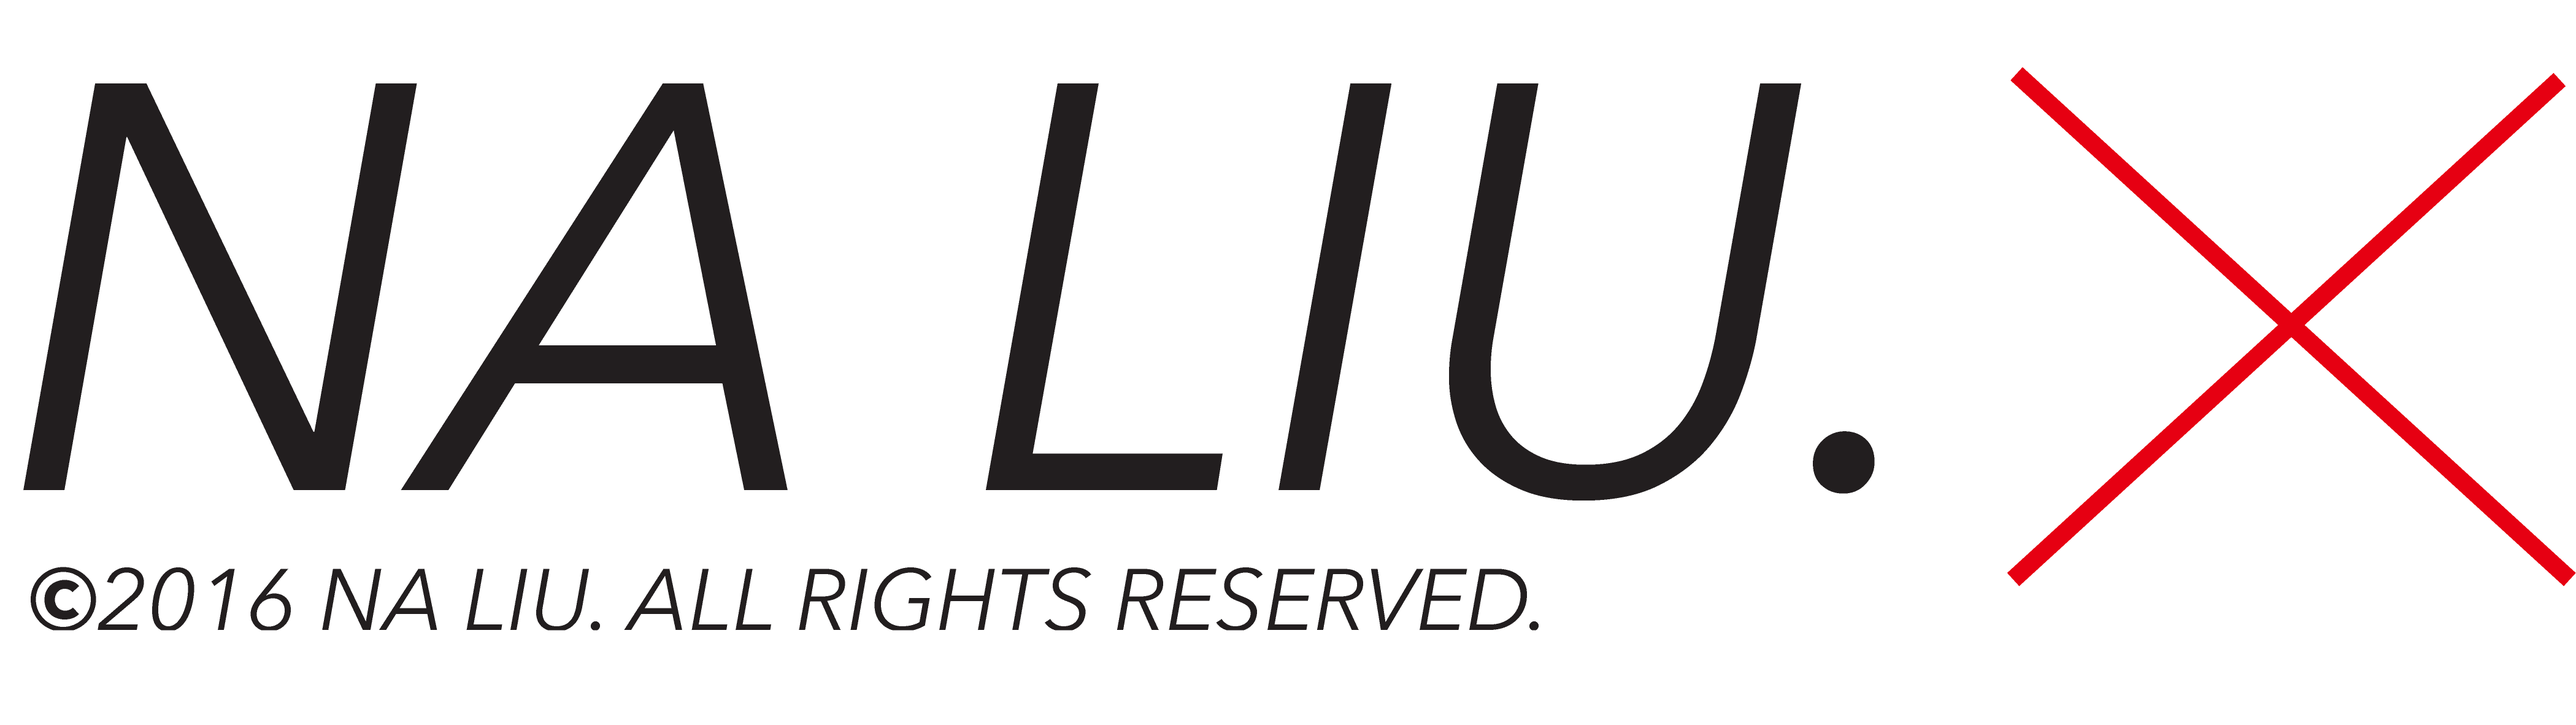
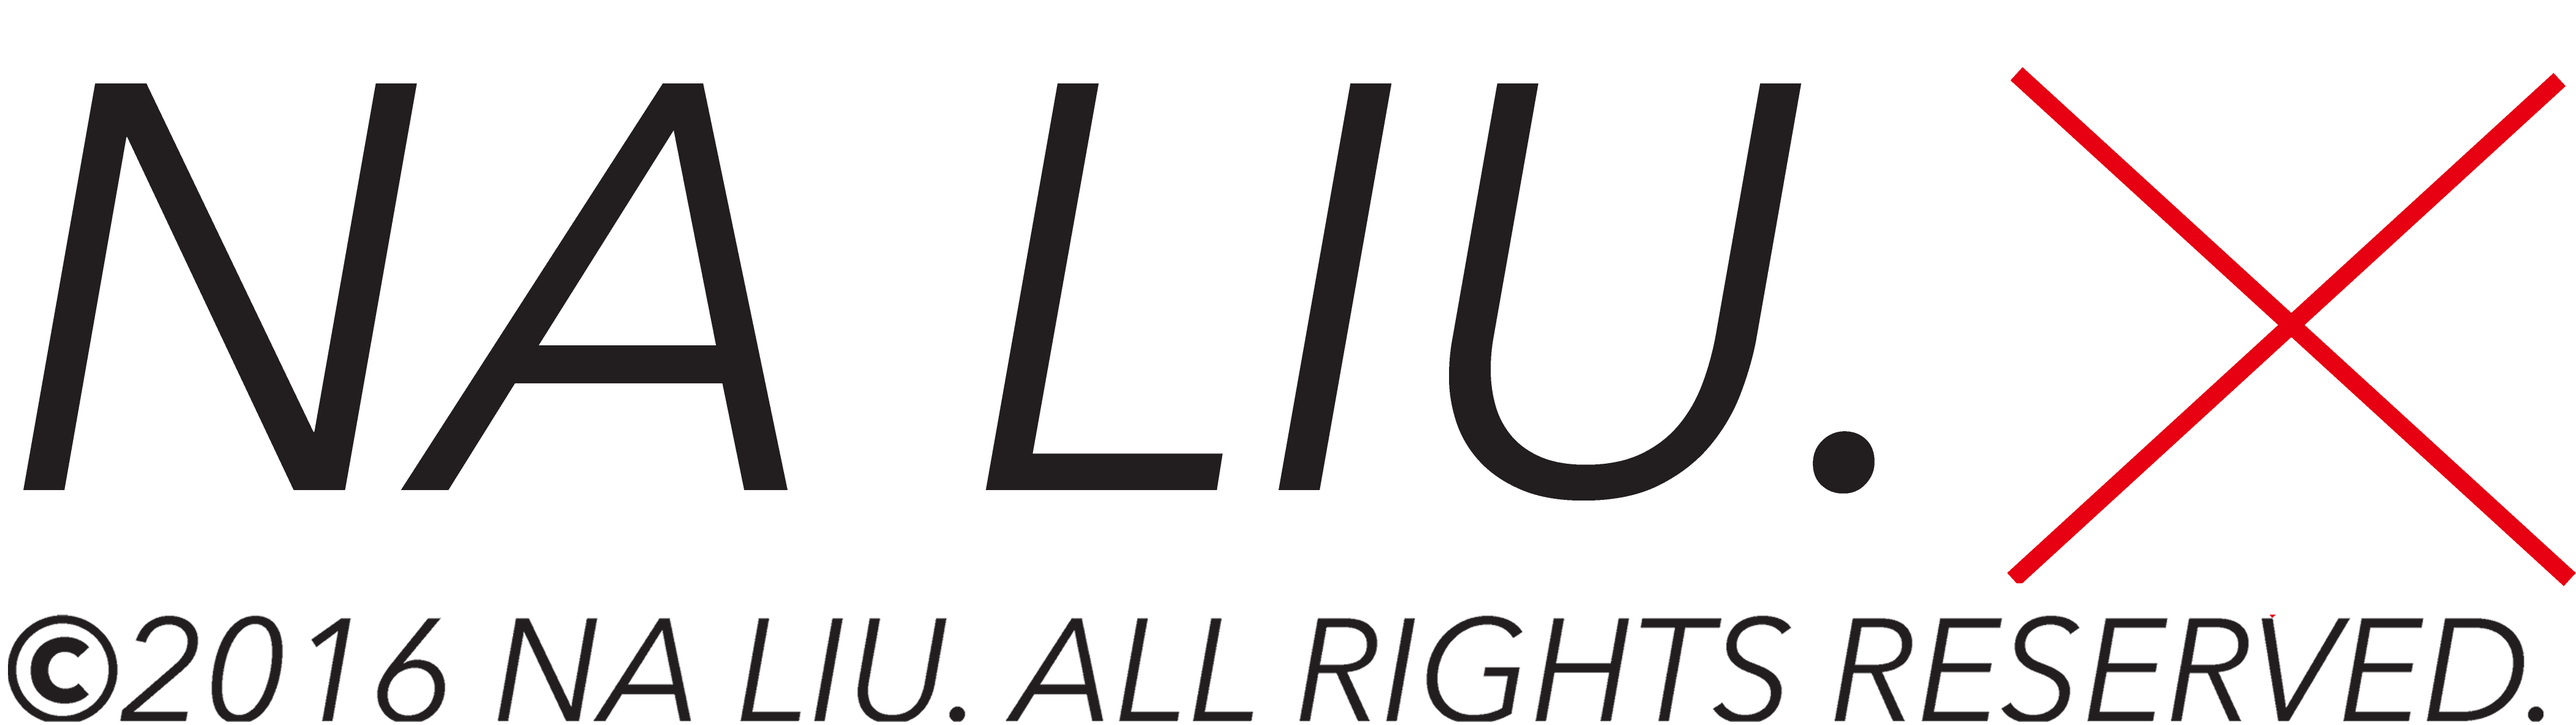
add missing years. slow down index. change password.

Changed region(s): [[0.0, 0.7614, 0.9983, 1.0]]

diff --git a/commercialprojects.html b/commercialprojects.html
@@ -13,15 +13,14 @@
     <link rel="stylesheet" type="text/css" href="css/paintingboard.css" />
     <link rel="stylesheet" type="text/css" href="bower_components/Swiper/dist/css/swiper.min.css" />
     <link rel="stylesheet" type="text/css" href="css/pace.css" />
+    <link rel="stylesheet" type="text/css" href="css/year.css" />
     <script src="javascript/pace.js"></script>
     <script src="bower_components/Swiper/dist/js/swiper.min.js"></script>
     <script src="javascript/onload.js"></script>
     <script type="text/javascript">
         $(window).on('load', function() {
             $(".content").show();
-            // });
-            //     $(document).ready(function() {
-            var delayTime = 300
+            var delayTime = 500
             var mySwiper = new Swiper('.swiper-container', {
                 loop: true,
                 preloadImages: false,
@@ -31,7 +30,7 @@
                     switch (swiper.activeIndex) {
                         case 6:
                         case 1:
-                            $('.animation1').css('left', '7.7%')
+                            $('.animation1').css('left', '15.4%')
                             break;
                         case 5:
                             $('.animation2').css('right', '0')
@@ -64,10 +63,6 @@
                     console.log("slide change end", swiper.activeIndex, swiper.previousIndex)
                 }
             })
-            $('.animation1').css('left', '7.7%')
-            $('.animation1').delay(1000).animate({
-                'left': '0'
-            })
         });
     </script>
     <style media="screen">
@@ -76,20 +71,17 @@
             line-height: 0;
         }
 
-        .wrap img:nth-of-type(1) {
-            width: 37%;
+        .swiper-slide img {
+            width: 100%;
             position: relative;
         }
 
-        .wrap img:nth-of-type(2) {
-            right: 0;
-            height: 100%;
-            position: absolute;
-        }
-
         .swiper-container {
+            position: absolute;
             width: 100%;
             height: 100%;
+            top: 0;
+            right: 0;
         }
     </style>
 </head>
@@ -102,51 +94,33 @@
         <div id="foot">
             <img id='black-foot' src="images/foot.png" style="width:31.352mm;" />
             <img id='white-foot' src="images/foot white.png" style="width:31.352mm;display:none;" /></div>
-        <div class="swiper-container">
-            <div class="swiper-wrapper">
-                <div class="board swiper-slide has-white-foot">
+        <div class="board">
+            <div>
+                <div>
                     <div>
-                        <div>
-                            <div>
-                                <img class="animation1" src="images/commercial/1.jpg" style="position:relative" />
-                            </div>
-                        </div>
-                    </div>
-                </div>
-                <div class="board swiper-slide">
-                    <div>
-                        <div>
-                            <div>
-                                <img src="images/commercial/2.jpg" />
-                            </div>
-                        </div>
-                    </div>
-                </div>
-                <div class="board swiper-slide">
-                    <div>
-                        <div>
-                            <div>
-                                <img src="images/commercial/3.jpg" />
-                            </div>
-                        </div>
-                    </div>
-                </div>
-                <div class="board swiper-slide">
-                    <div>
-                        <div>
-                            <div>
-                                <img src="images/commercial/4.jpg" />
-                            </div>
-                        </div>
-                    </div>
-                </div>
-                <div class="board swiper-slide has-white-foot">
-                    <div>
-                        <div>
-                            <div>
-                                <div class="wrap">
-                                    <img src="images/commercial/separated/7.jpg" />
-                                    <img class="animation2" src="images/commercial/separated/8.jpg" />
+                        <div class="wrap">
+                            <img src="images/white.jpg" style="position:relative;width:100%;opacity:0;" />
+                            <img class="year" src="images/2016.png"/>
+                            <div class="swiper-container">
+                                <div class="swiper-wrapper">
+                                    <div class="swiper-slide has-white-foot">
+                                      <div style="height:100%;width:100%;background:white;">
+                                        <img class="animation1" src="images/commercial/1.jpg" />
+                                      </div>
+                                    </div>
+                                    <div class="swiper-slide">
+                                        <img src="images/commercial/2.jpg" />
+                                    </div>
+                                    <div class="swiper-slide">
+                                        <img src="images/commercial/3.jpg" />
+                                    </div>
+                                    <div class="swiper-slide">
+                                        <img src="images/commercial/4.jpg" />
+                                    </div>
+                                    <div class="swiper-slide has-white-foot">
+                                        <img src="images/commercial/separated/7.jpg" style="position:relative;width:38%;" />
+                                        <img class="animation2" src="images/commercial/separated/8.jpg" style="width:39.7%;right:0;top:0;position:absolute;" />
+                                    </div>
                                 </div>
                             </div>
                         </div>

diff --git a/index.html b/index.html
@@ -67,7 +67,7 @@
         }
 
         function getRandomInterval() {
-            return Math.random() * 1300 + 200
+            return Math.random() * 3000 + 2000
         }
     </script>
     <style>
@@ -94,18 +94,18 @@
                     <div style="line-height:0;position:relative;">
                         <img src="images/homepage/SEPERATED_red/layer2.png" style="position:relative;width:100%;z-index:100;" usemap="#entry-map" />
                         <img src="images/homepage/SEPERATED_red/layer1.png" style="position:absolute;left:0;top:0;width:100%;z-index:50;" />
-                        <img class="entry" src="images/homepage/SEPERATED_red/1.png" style="top:20.6%;left:0;" />
-                        <img class="entry" src="images/homepage/SEPERATED_red/2.png" style="top:81.6%;left:0.05%;" />
-                        <img class="entry notebook" src="images/homepage/SEPERATED_red/3.png" style="left:13.55%;top:41.71%;" />
-                        <img class="entry philosophy" src="images/homepage/SEPERATED_red/4.png" style="left:23.39%;top:71.15%;" />
-                        <img class="entry about" src="images/homepage/SEPERATED_red/5.png" style="left:30.52%;top:12.31%;" />
-                        <img class="entry collage" src="images/homepage/SEPERATED_red/6.png" style="top:54%;left:40.4%;" />
-                        <img class="entry collection" src="images/homepage/SEPERATED_red/7.png" style="top:22.41%;left:53.4%;" />
-                        <img class="entry sketch" src="images/homepage/SEPERATED_red/8.png" style="top:86.4%;left:57.1%;" />
-                        <img class="entry commercial" src="images/homepage/SEPERATED_red/9.png" style="top:45.6%;left:69.85%;" />
-                        <img class="entry contact" src="images/homepage/SEPERATED_red/10.png" style="top:71.15%;left:83.3%;" />
-                        <img class="entry art" src="images/homepage/SEPERATED_red/11.png" style="top:20.8%;left:83.9%;" />
-                        <img class="entry" src="images/homepage/SEPERATED_red/12.png" style="top:54.02%;left:100.25%;" />
+                        <img class="entry" src="images/homepage/SEPERATED_red/1.png" style="top:20.6%;left:0;z-index:90;" />
+                        <img class="entry" src="images/homepage/SEPERATED_red/2.png" style="top:81.6%;left:0.05%;z-index:90;" />
+                        <img class="entry notebook" src="images/homepage/SEPERATED_red/3.png" style="left:13.55%;top:41.71%;z-index:89;" />
+                        <img class="entry philosophy" src="images/homepage/SEPERATED_red/4.png" style="left:23.39%;top:71.15%;z-index:89;" />
+                        <img class="entry about" src="images/homepage/SEPERATED_red/5.png" style="left:30.52%;top:12.31%;z-index:88;" />
+                        <img class="entry collage" src="images/homepage/SEPERATED_red/6.png" style="top:54%;left:40.4%;z-index:88;" />
+                        <img class="entry collection" src="images/homepage/SEPERATED_red/7.png" style="top:22.41%;left:53.4%;z-index:87;" />
+                        <img class="entry sketch" src="images/homepage/SEPERATED_red/8.png" style="top:86.4%;left:57.1%;z-index:87;" />
+                        <img class="entry commercial" src="images/homepage/SEPERATED_red/9.png" style="top:45.6%;left:69.85%;z-index:86;" />
+                        <img class="entry contact" src="images/homepage/SEPERATED_red/10.png" style="top:71.15%;left:83.3%;z-index:80;" />
+                        <img class="entry art" src="images/homepage/SEPERATED_red/11.png" style="top:20.8%;left:83.9%;z-index:80;" />
+                        <img class="entry" src="images/homepage/SEPERATED_red/12.png" style="top:54.02%;left:100.25%;z-index75;" />
                         <a class="notebook" href="notebook.html"></a>
                         <a class="philosophy" href="philosophy.html"></a>
                         <a class="about" href="about.html"></a>

diff --git a/collection1.html b/collection1.html
@@ -44,6 +44,13 @@
             position: relative;
             line-height: 0;
         }
+        img.year {
+          position: absolute;
+          top: 7.15%;
+          left:7.14%;
+          width: 5.5%;
+          /*height:12.5%;*/
+        }
     </style>
 </head>
 
@@ -65,9 +72,11 @@
                                 <div class="swiper-wrapper">
                                     <div class="swiper-slide">
                                         <img src="images/collection/separated/web design2left.jpg" style="width:100%" />
+                                        <img class="year" src="images/2014.png" />
                                     </div>
                                     <div class="swiper-slide">
                                         <img src="images/collection/separated/web design5left.jpg" style="width:100%" />
+                                        <img class="year" src="images/2014.png" />
                                     </div>
                                 </div>
                             </div>

diff --git a/collection4.html b/collection4.html
@@ -23,7 +23,11 @@
                 loop: true,
                 preloadImages: false,
                 lazyLoading: true,
-                nextButton: 'body'
+                nextButton: '.swiper-container',
+                effect: 'fade',
+                fade: {
+                    crossFade: true
+                }
             })
         });
     </script>

diff --git a/login.html b/login.html
@@ -86,7 +86,7 @@
         }
 
         function checkPassword() {
-            if (getInput() == "1234") {
+            if (getInput() == "2234") {
                 return true
             } else {
                 return false

diff --git a/css/year.css b/css/year.css
@@ -1,0 +1,8 @@
+.year {
+  position: absolute;
+  top: 7.15%;
+  left:2.875%;
+  width: 2.2%;
+  z-index: 9999;
+  /*height:12.5%;*/
+}
